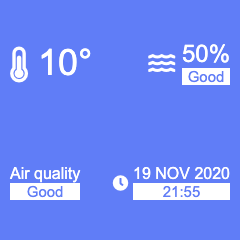
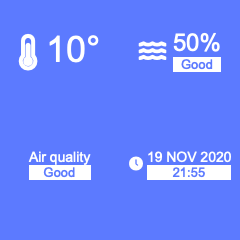
Using PhantomJS

diff --git a/pi_weatherstation/template/index.html b/pi_weatherstation/template/index.html
@@ -1,5 +1,7 @@
 <html>
 <head>
+    <meta charset="UTF-8">
+    <!-- <link href="resources/css/all.css" rel="stylesheet"> -->
     <link href="{{resources_folder}}/css/all.css" rel="stylesheet">
 </head>
 <style>
@@ -16,29 +18,30 @@
 
     .main {
         background-color: #5C7AFF;
-        display: flex;
-        flex-wrap: wrap;
-        justify-content: space-between;
-        align-content: stretch;
-        align-items: center;
         color: #FFF;
         width: 240px;
         height: 240px;
+        font-size: 0;
     }
 
     .widget {
-        padding: 10px;
+        display: inline-block;
         text-align: center;
+        width: 120px;
+        height: 120px;
+        vertical-align: middle;
+        font-size: 14px;
     }
     .value {
         display: block;
+        margin-top: 29px;
     }
     .cell {
         display: inline-block;
         vertical-align: middle;
     }
     .sticker {
-        font-size: 15px;
+        font-size: 13px;
         background-color: #fff;
         color: #5C7AFF;
     }

diff --git a/pi_weatherstation/output/screen.py b/pi_weatherstation/output/screen.py
@@ -15,11 +15,14 @@ env = Environment(
 
 template = env.get_template("index.html")
 
-options = webdriver.ChromeOptions()
-options.add_argument("--window-size=240,240")
-options.add_argument("--headless")
-options.add_argument("--force-device-scale-factor=1.0")
-driver = webdriver.Chrome(options=options)
+# options = webdriver.ChromeOptions()
+# options.add_argument("--window-size=240,240")
+# options.add_argument("--headless")
+# options.add_argument("--force-device-scale-factor=1.0")
+# driver = webdriver.Chrome(options=options)
+# driver.set_window_position(0, 0)
+# driver.set_window_size(240, 240))
+driver = webdriver.PhantomJS()
 driver.set_window_position(0, 0)
 driver.set_window_size(240, 240)
 
